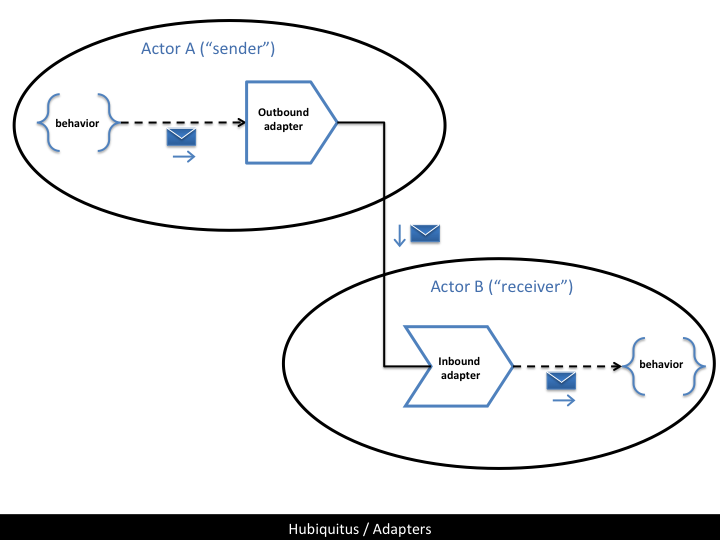
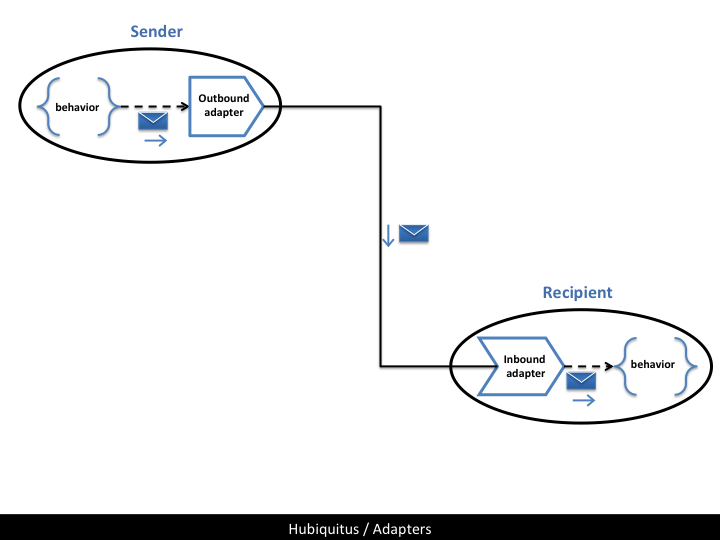
New chapter about channels

diff --git a/docs/Reference.md b/docs/Reference.md
@@ -55,19 +55,36 @@ The following figure summarizes these principles:
 
 ![actor model](https://github.com/hubiquitus/hubiquitus/raw/master/docs/images/ActorModel.png)
 
+### Messages
+
+Actors communicate in an asynchronous manner using **messages**.
+
+A message can be seen as an atomic piece of transferable data composed of two distinct parts:
+
+* a **payload**: a piece of data that is the fundamental purpose of the transmission
+* an **enveloppe**: a piece of related metadata providing information necessary to the proper delivery of the message 
+
+Hubiquitus defines a **standard data structure** for messages so that they can be properly delivered to actors and processed by them.
+
 ### Adapters
 
-**Adapters** are special Hubiquitus components that provide messaging features to actors :
+**Adapters are special Hubiquitus components that provide core messaging features to actors**:
 
-* actors need **inbound adapters** to listen to ingoing messages from the outside world
-* actors need **outbound adapters** to send outgoing messages to the outside world
+* actors need **inbound adapters**, kind of *sockets*, to listen to ingoing messages from the outside world, including actors
+* actors need **outbound adapters**, kind of *plugs* to send outgoing messages to the outside world, including actors
 
-The figure below explains this principle:
+The figure below explains this principle with an actor called 'Sender' sending messages to an actor called 'Recipient':
 ![adapters](https://github.com/hubiquitus/hubiquitus/raw/master/docs/images/Adapters.png)
 
 ### Channels
 
-> TO BE DESCRIBED
+**Channels are built-in Hubiquitus actors that implement the Publish-Subscribe pattern**.
+
+Publish–Subscribe is a messaging pattern where senders of messages, called publishers, do not program the messages to be sent directly to specific receivers, called subscribers. Instead, published messages are characterized into classes, without knowledge of what, if any, subscribers there may be. Similarly, subscribers express interest in one or more classes, and only receive messages that are of interest, without knowledge of what, if any, publishers there are.
+
+Channels implement those *classes* as shown in the diagram below:
+
+![channels](https://github.com/hubiquitus/hubiquitus/raw/master/docs/images/Channels.png)
 
 ## Framework overview
 
@@ -172,16 +189,6 @@ The hubiquitus middleware also provides advanced security features:
 * **pattern-matching** : the middleware allows filtering ingoing and outgoing messages that match a given pattern
 
 ### Adapters
-
-**The Hubiquitus middleware features are implemented by a family of components we call 'adapters'**.
-
-You'll always need at least two adapters to enable a messaging communication link:
-
-* an adapter is used by the message emitter to send the message over the network
-* another adapter is used by the message receiver to received the message from the network
-
-The following figure explains this principle:
-![adapters](https://github.com/hubiquitus/hubiquitus/raw/master/docs/images/Adapters.png)
 
 #### Flow processing pipeline
 
